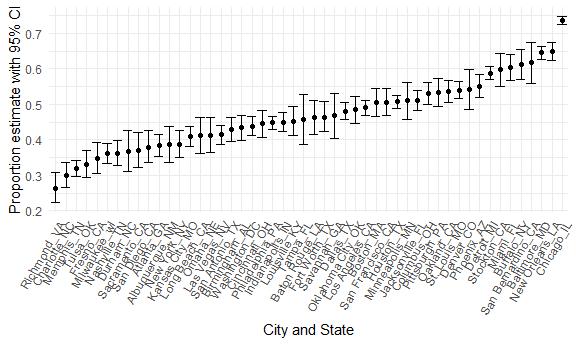
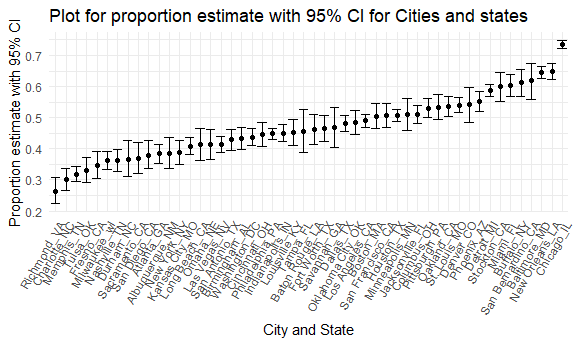
Problem 2: Plot title added

Changed region(s): [[0.0, 0.029, 1.0, 0.6667], [0.0625, 0.029, 0.9375, 0.087], [0.9688, 0.058, 1.0, 0.087]]

diff --git a/p8105_HW5_sm4956.md b/p8105_HW5_sm4956.md
@@ -182,7 +182,8 @@ plot_cities_prop = cities_proportion %>%
   geom_point() + 
   geom_errorbar(aes(ymin = conf.low, ymax = conf.high)) + 
   theme(legend.position = "bottom", axis.text.x = element_text(angle = 60, hjust = 1)) + 
-  labs (x = "City and State",
+  labs (title = "Plot for proportion estimate with 95% CI for Cities and states",
+        x = "City and State",
         y = "Proportion estimate with 95% CI")
   
 plot_cities_prop
